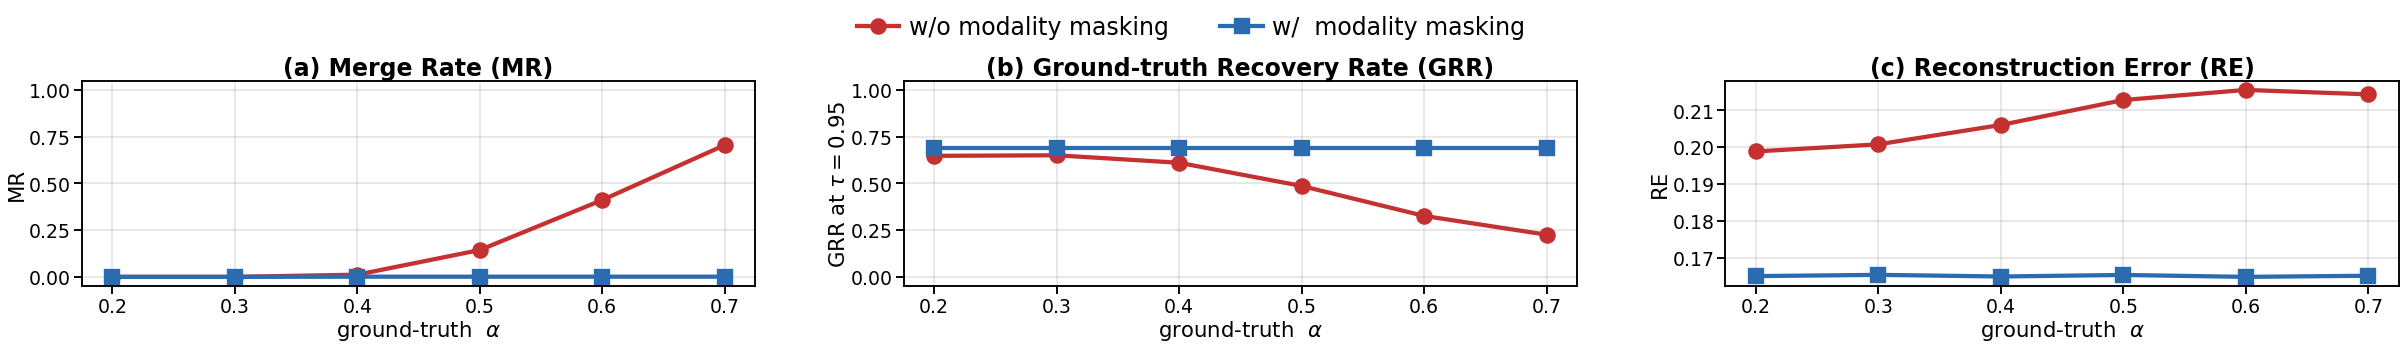
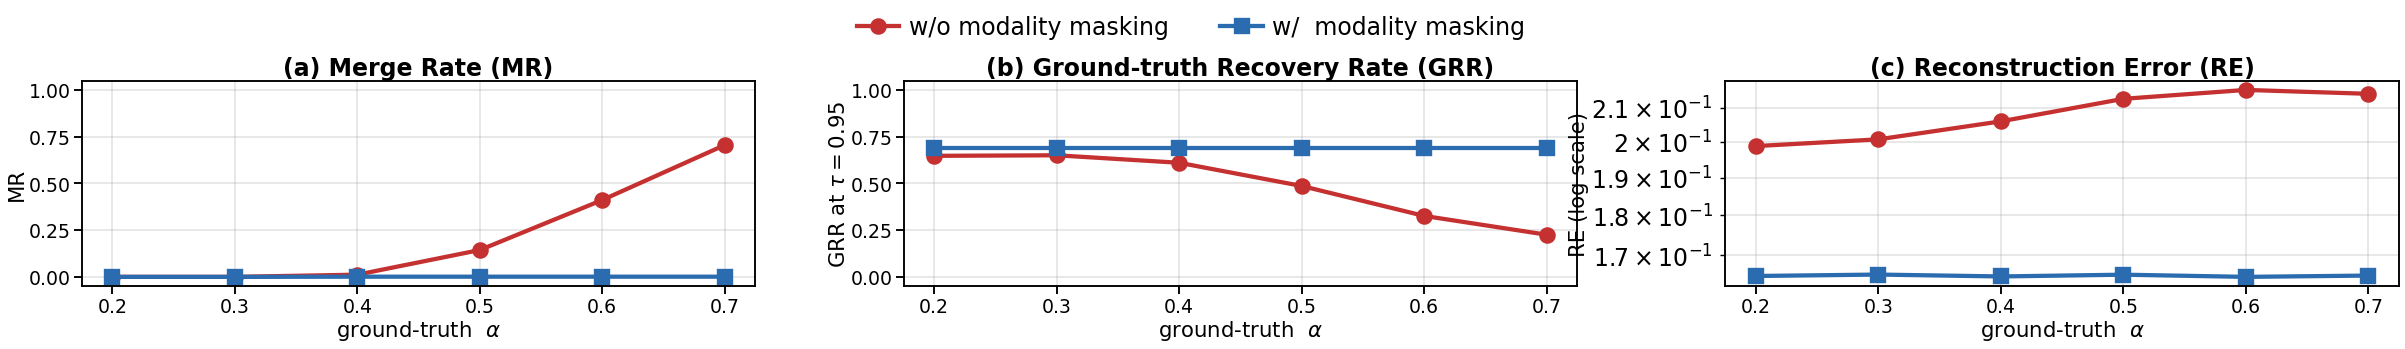
fig1/fig2: log-scale RE panel (RE (log scale) y-label)

diff --git a/scripts/plot_fig1_three_panels.py b/scripts/plot_fig1_three_panels.py
@@ -30,7 +30,7 @@ PANELS = [
     # (metric_key,                 ylabel,               title,                                    ylim,     yticks_step)
     ("merged_fraction",            "MR",                  "(a) Merge Rate (MR)",                    (-0.05, 1.05), None),
     ("img_mgt_shared_tau0.95",     r"GRR at $\tau=0.95$", "(b) Ground-truth Recovery Rate (GRR)",   (-0.05, 1.05), None),
-    ("avg_eval_loss",              "RE",                   "(c) Reconstruction Error (RE)",          None,          0.01),
+    ("avg_eval_loss",              "RE (log scale)",       "(c) Reconstruction Error (RE)",          None,          None),
 ]
 
 
@@ -68,7 +68,9 @@ def make_fig1(json_path: str, out_path: str, alphas_target=(0.2, 0.3, 0.4, 0.5, 
             ax.set_ylim(*ylim)
         if ystep is not None:
             ax.yaxis.set_major_locator(MultipleLocator(ystep))
-        ax.grid(alpha=0.3)
+        if metric == "avg_eval_loss":
+            ax.set_yscale("log")
+        ax.grid(alpha=0.3, which="both")
 
     fig.legend(
         handles=handles, loc="upper center",
